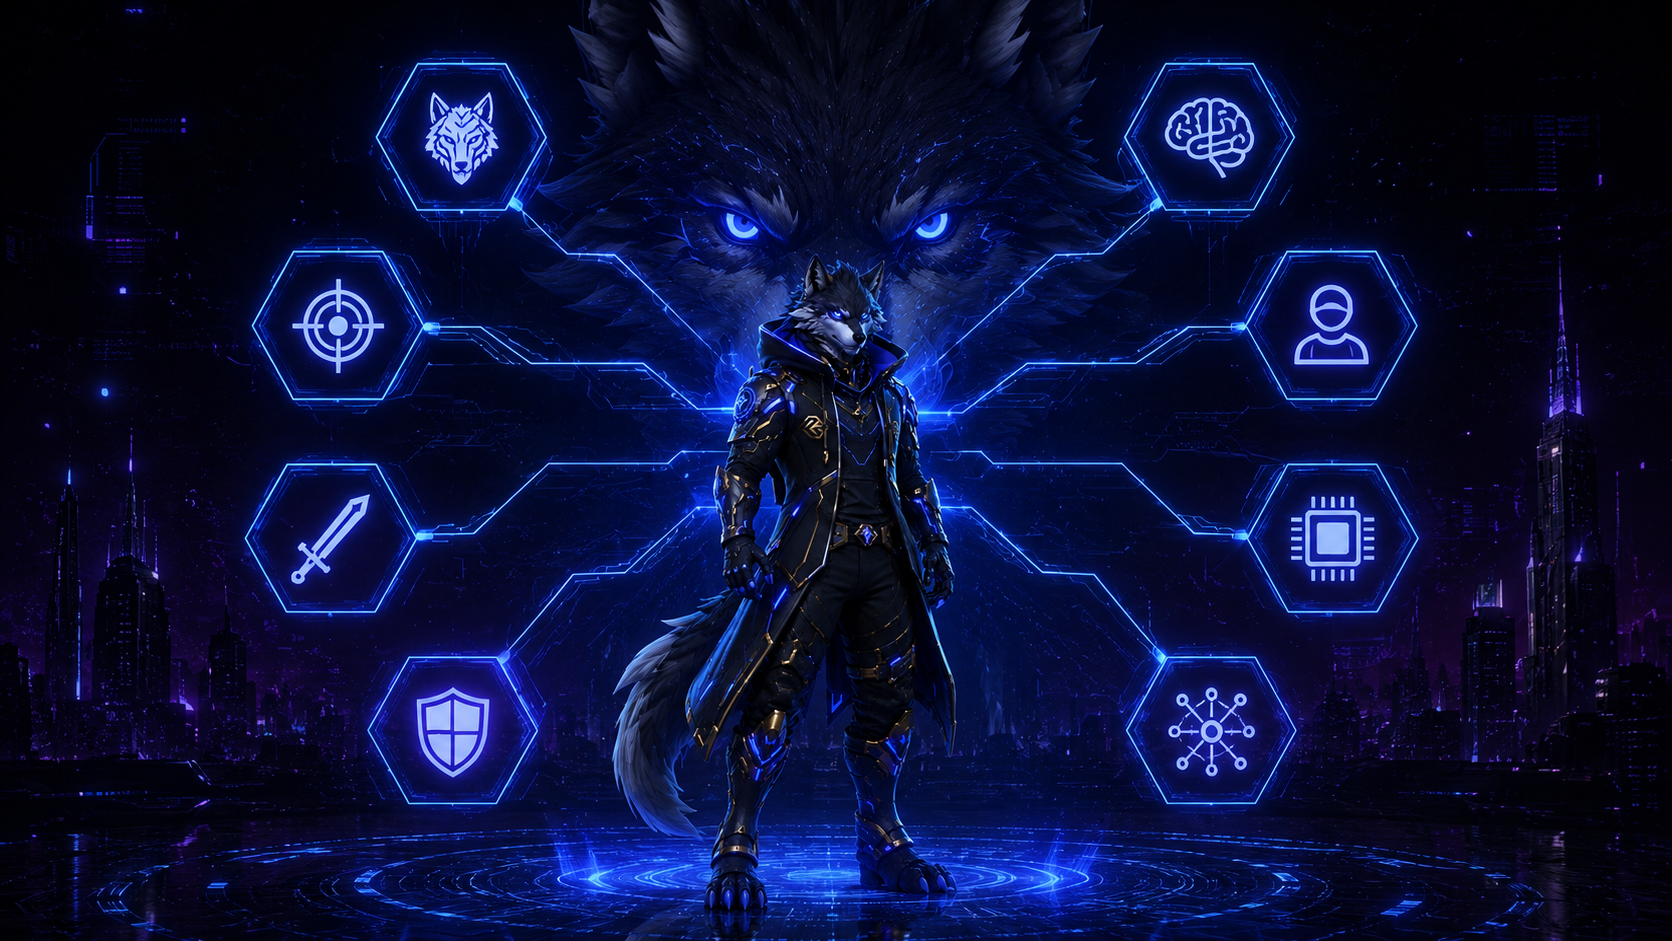
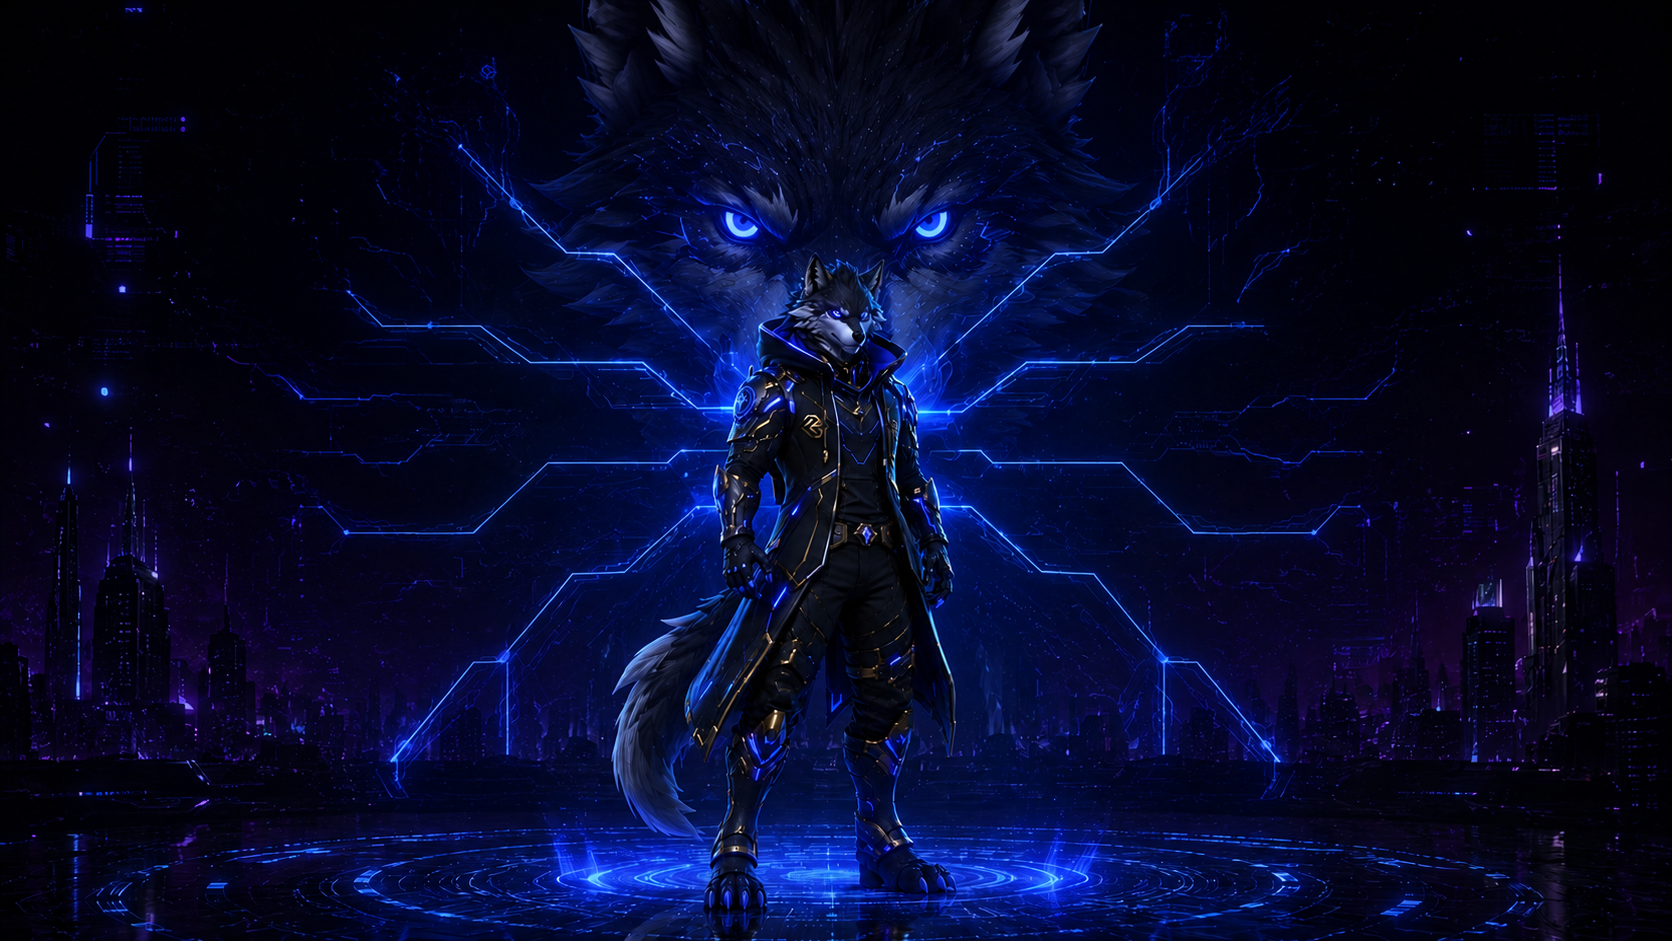
feat: replace industries bg with clean wolf image, reposition 8 hexagons on circuit arms

diff --git a/src/components/industries-section.tsx b/src/components/industries-section.tsx
@@ -11,56 +11,56 @@ const industries = [
     title: "Clinics & Hospitals",
     problem: "Patients call at 10pm for appointments. Your staff has gone home.",
     solution: "AI answers, books, follows up — zero missed patients",
-    left: "27%", top: "8%",
+    left: "9%", top: "12%",
   },
   {
     icon: "📚",
     title: "Coaching & EdTech",
     problem: "Students ask about your course at 10pm — you miss the admission.",
     solution: "AI explains, answers objections, sends payment link automatically",
-    left: "65%", top: "8%",
+    left: "80%", top: "12%",
   },
   {
     icon: "🍽",
     title: "Restaurants & Cafes",
     problem: "WhatsApp orders pile up during peak hours. Staff can't keep up.",
     solution: "AI takes orders, confirms bookings, sends daily specials automatically",
-    left: "14%", top: "30%",
+    left: "3%", top: "38%",
   },
   {
     icon: "🏠",
     title: "Real Estate",
     problem: "Property inquiries come at all hours. You can't follow up on all of them.",
     solution: "AI captures every lead, qualifies them, books site visits automatically",
-    left: "78%", top: "30%",
+    left: "86%", top: "38%",
   },
   {
     icon: "💪",
     title: "Gyms & Fitness Studios",
     problem: "67% of gym inquiries come after 6pm when nobody is at the desk.",
     solution: "AI responds instantly, shares plans, books trial sessions 24/7",
-    left: "11%", top: "52%",
+    left: "8%", top: "62%",
   },
   {
     icon: "🛍",
     title: "D2C & E-commerce",
     problem: "Abandoned carts, unanswered product questions, no repeat orders.",
     solution: "AI recovers carts, answers questions, drives repeat purchases 24/7",
-    left: "80%", top: "52%",
+    left: "82%", top: "62%",
   },
   {
     icon: "🏪",
     title: "Retail & Local Shops",
     problem: "Your WhatsApp is full of same questions asked 20 times a day.",
     solution: "AI answers every question, takes orders, brings customers back",
-    left: "20%", top: "72%",
+    left: "20%", top: "80%",
   },
   {
     icon: "🚀",
     title: "Startups",
     problem: "Moving fast but losing leads because your team is too small.",
     solution: "AI handles support, follow-ups and onboarding so team focuses on growth",
-    left: "72%", top: "72%",
+    left: "70%", top: "80%",
   },
 ];
 
